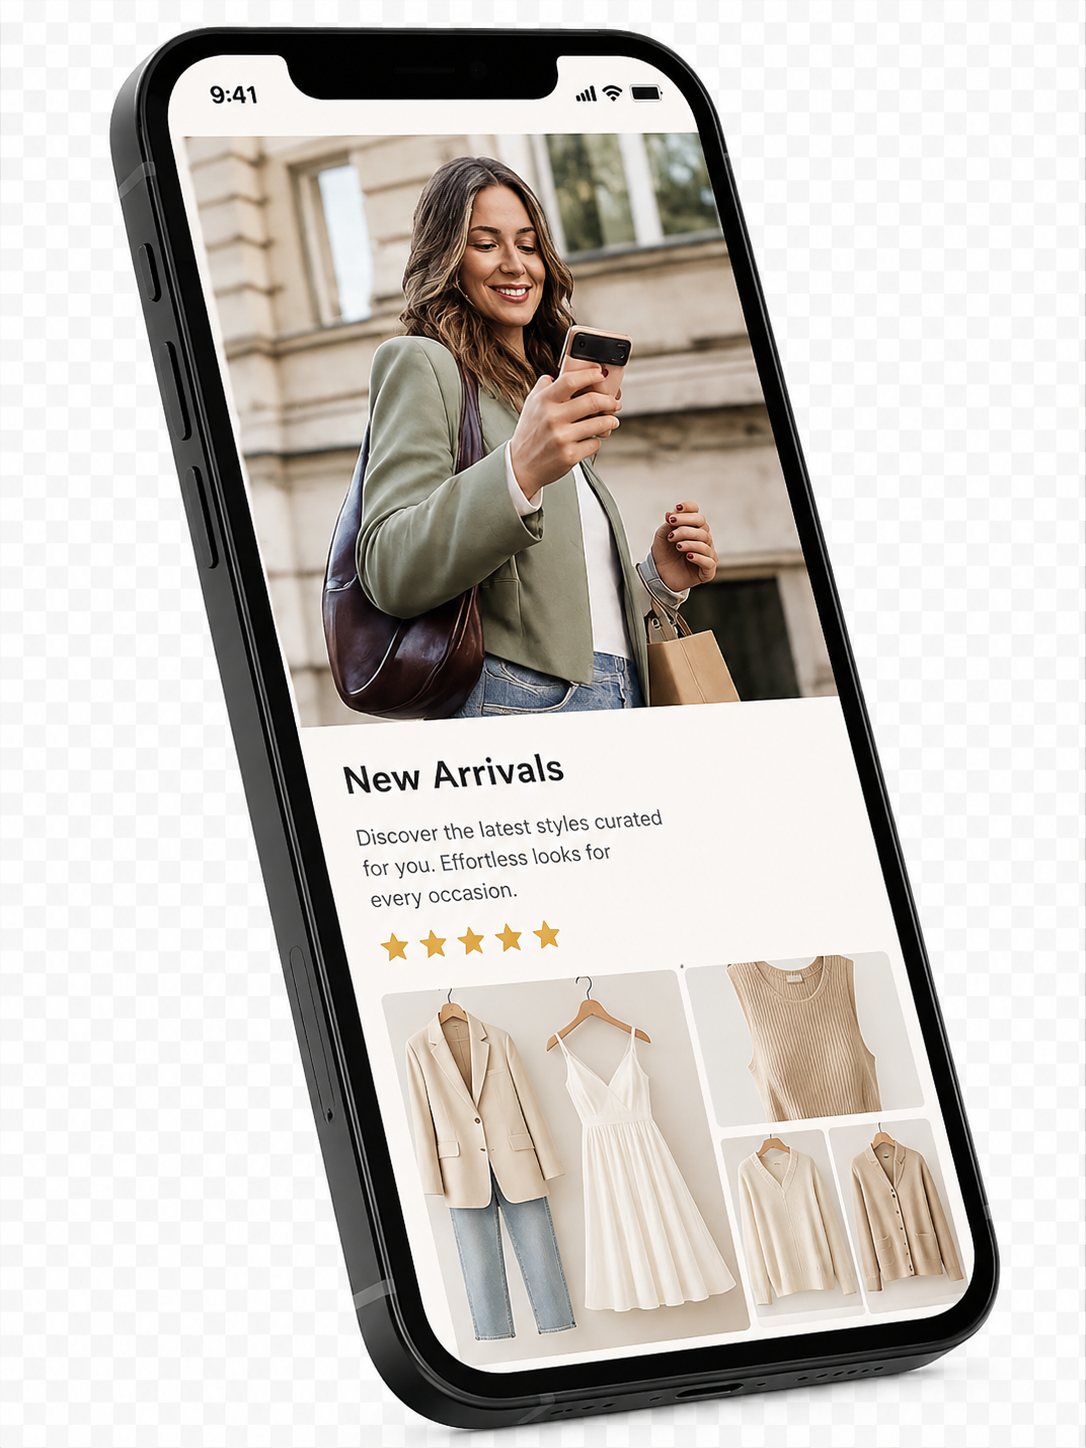
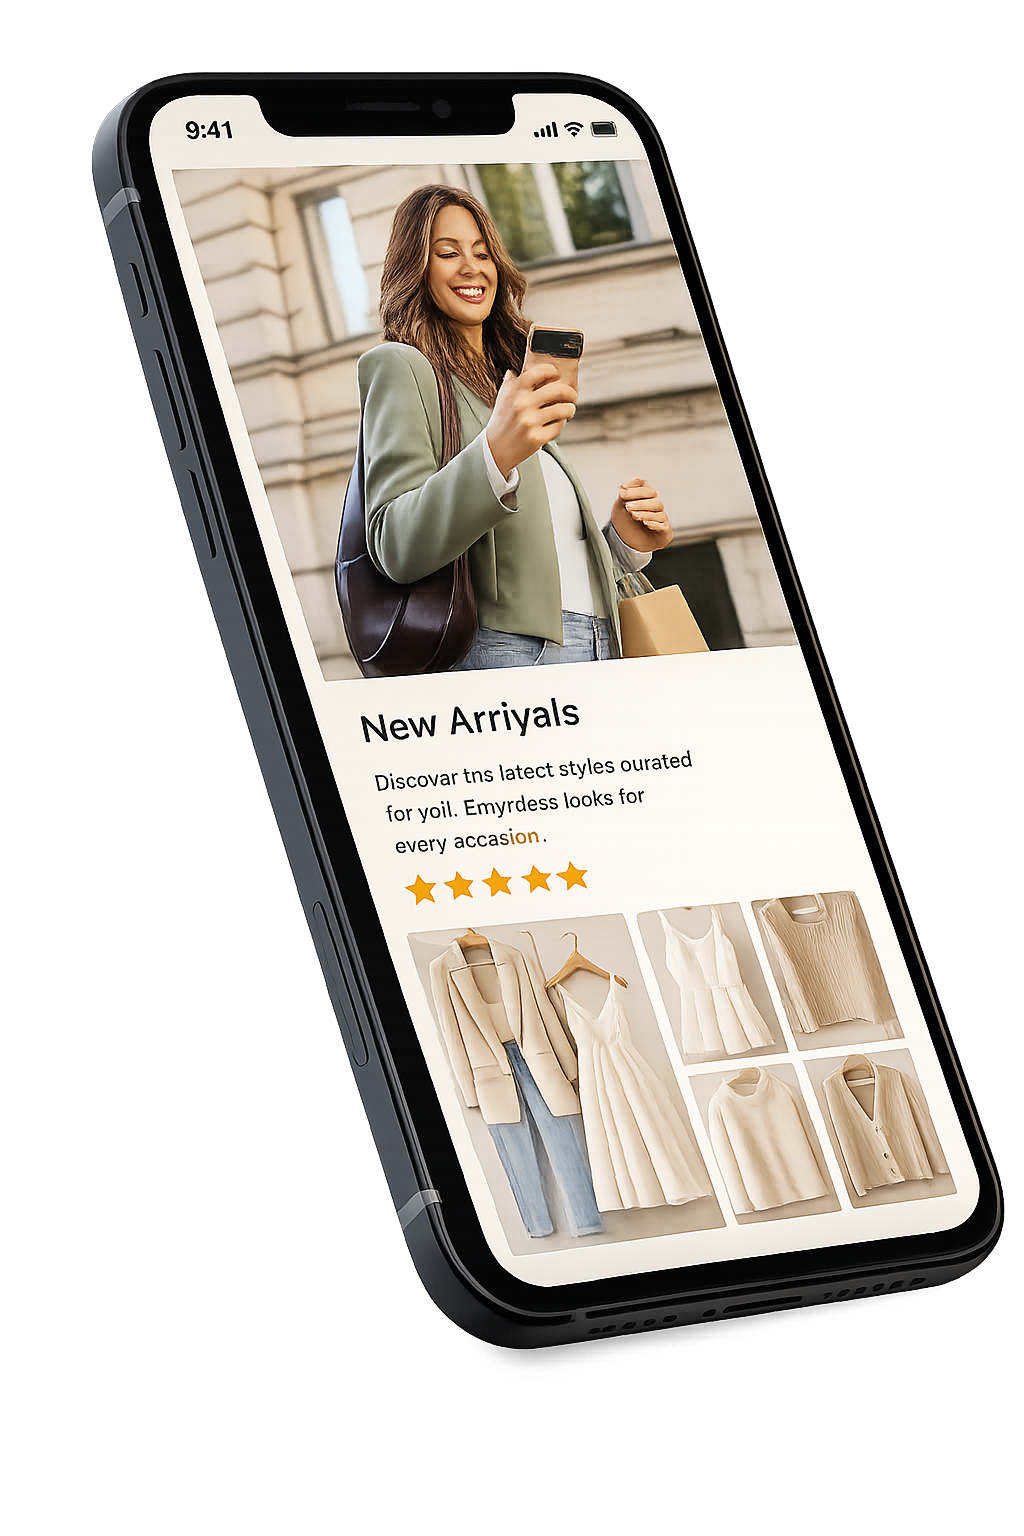
donwload section fully baked

diff --git a/style.css b/style.css
@@ -290,6 +290,7 @@ display:none;
   display:flex;
   gap:20px;
   align-items:center;
+  transition:transform 0.3s ease;
 
 }
 
@@ -297,9 +298,14 @@ display:none;
    height:auto;
    width:200px;
 }
+
 .app-image img{
-    width:100%;
-    border-radius:20px;
+    width: 450px;
+    height: auto;
+}
+
+.app-buttons img:hover{
+    transform:scale(1.05);
 }
 
 
